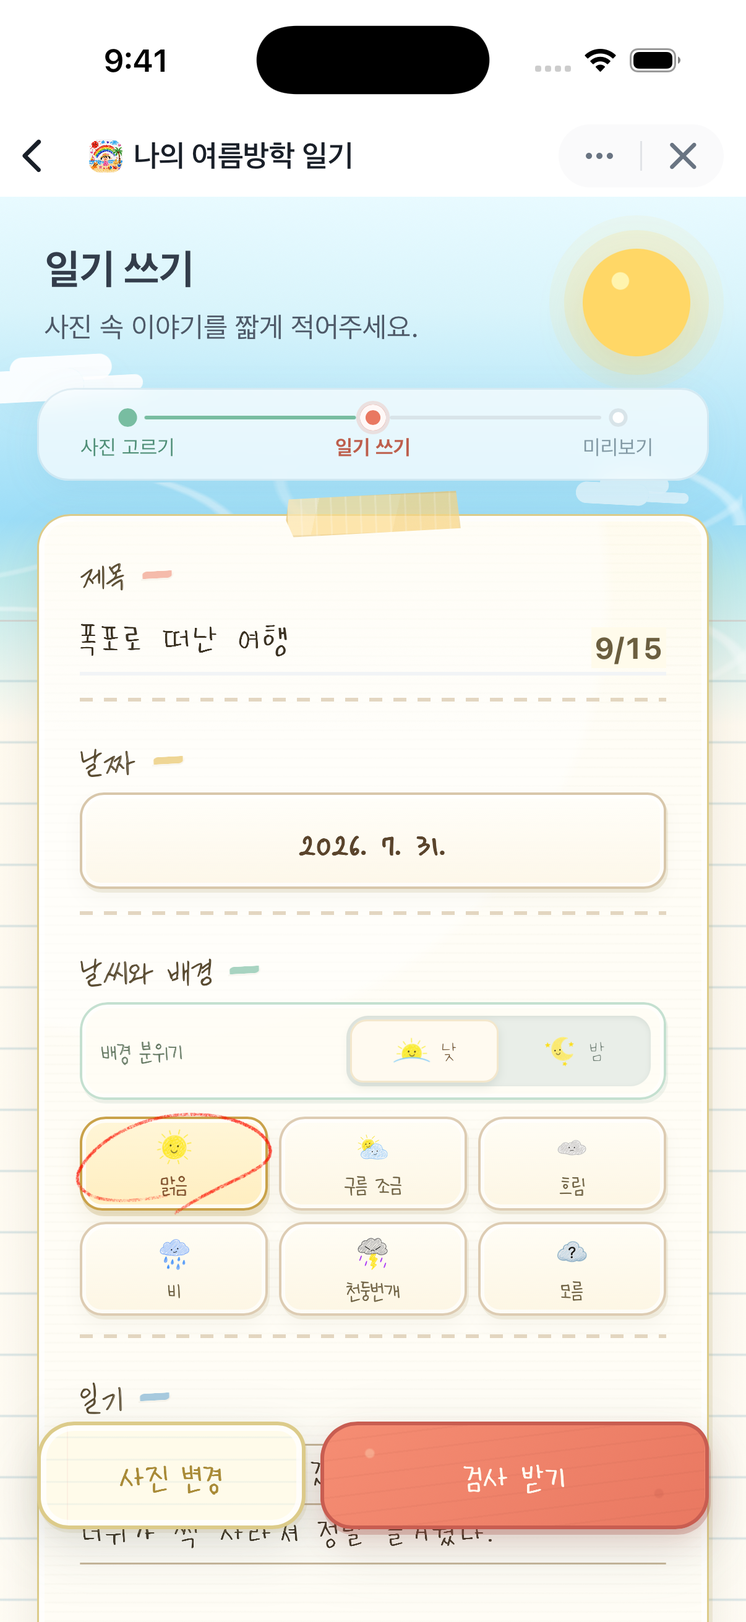
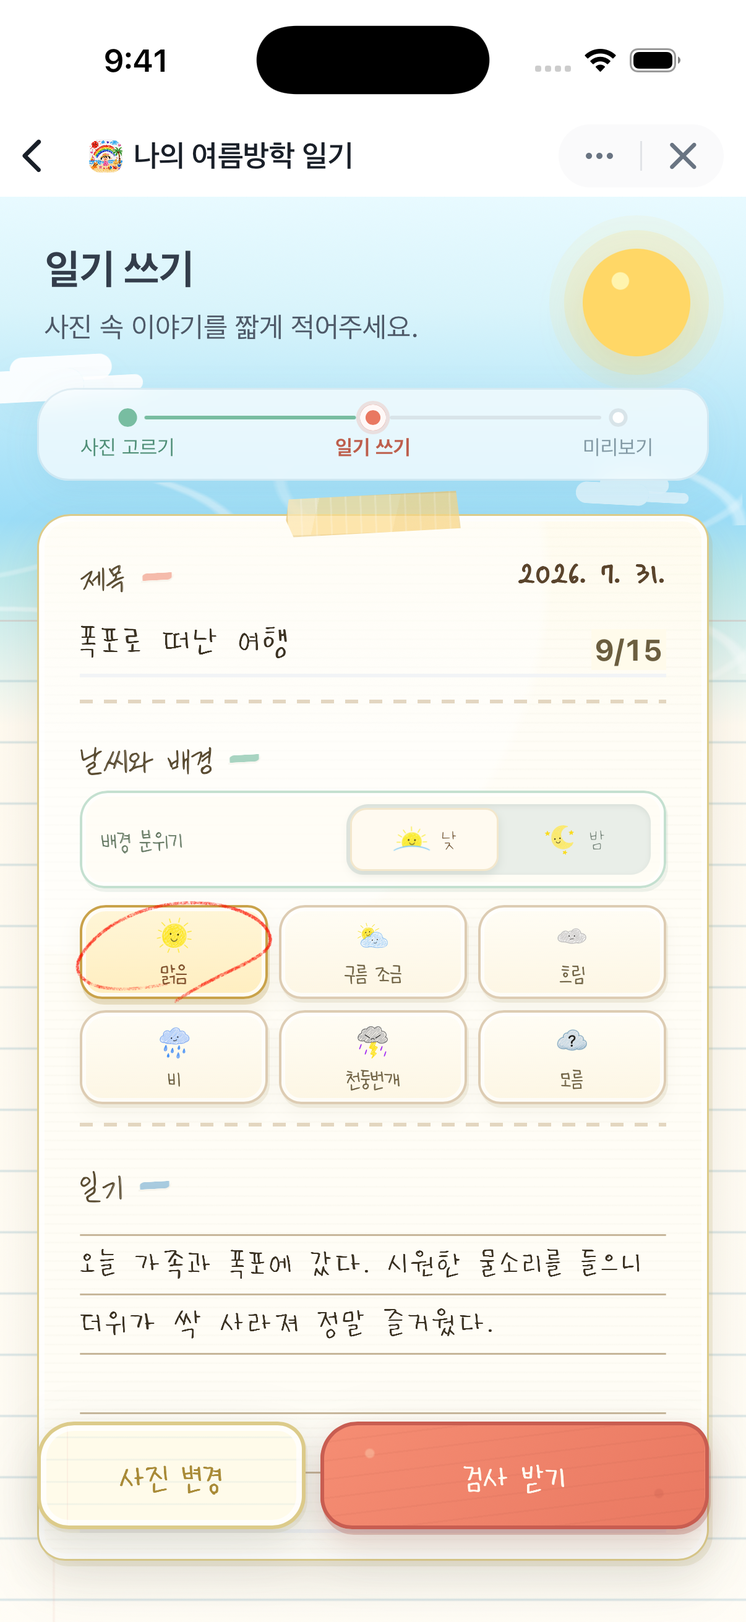
docs: 최신 기능과 연속 일기 기록 화면 반영

diff --git a/docs/functional-specification.md b/docs/functional-specification.md
@@ -46,7 +46,7 @@
 - **관련 화면:** 온보딩, 업로드
 - **관련 API:** 앱 로드 시 `quota-status`를 비차감 조회할 수 있음(F-10)
 - **관련 데이터:** 온보딩 표시 여부는 React 메모리 상태이며 영구 저장하지 않음
-- **완료 조건:** 업로드 화면과 1/3 진행 상태가 표시됨
+- **완료 조건:** 업로드 화면에 오늘의 도장·연속 작성 상태와 AI 검사 잔여량이 표시됨. 업로드 단계 번호는 표시하지 않음
 - **상태:** `구현 완료`
 - **근거:** `src/App.tsx`, `src/hooks/useAiQuota.ts`
 
@@ -103,7 +103,7 @@
 - **관련 화면:** 작성
 - **관련 API:** 없음
 - **관련 데이터:** `summer-vacation-diary:draft:v2`의 `draftId`, 사진, 그림, 제목, 본문, 날짜, 날씨, `timeOfDay`
-- **완료 조건:** 제목과 본문이 각각 공백이 아니면 `검사 받기`가 유효해짐
+- **완료 조건:** 제목과 본문이 각각 공백이 아니면 최초 `검사 받기`가 유효해짐. 미리보기 재방문 뒤에는 변경 종류에 따라 `다시 검사 받기`, `수정 내용 확인하기`, `미리보기로 돌아가기`를 표시함
 - **상태:** `구현 완료`
 - **근거:** `src/components/WriteStep.tsx`, `src/App.tsx`, `src/hooks/useDiaryDraft.ts`, `src/constants/diary.ts`
 
@@ -204,7 +204,7 @@
 - **Actor:** 사용자
 - **사전 조건:** Supabase가 설정되고 클라이언트 테스트 모드가 꺼짐
 - **입력:** 앱 시작의 `quota-status` 및 각 응답에 포함된 `quota`
-- **정상 흐름:** 서버가 반환한 필수 `all` 카운터를 통합 AI 검사 기회로 표시합니다. 사진 변환이나 분석 중 하나만 다시 실행되어도 Edge Function이 통합 consume RPC로 `all` 1회를 예약하며, 통합 기회를 모두 사용하면 두 작업을 함께 선차단하고 미리보기 처리 애니메이션도 생략합니다. 그림 진행 중 요청은 로컬 ledger로 선반영합니다. DB 수준 원자성은 설치된 RPC SQL 확인이 필요합니다.
+- **정상 흐름:** 서버가 반환한 필수 `all` 카운터를 통합 AI 검사 기회로 표시합니다. 사진 변환이나 분석 중 하나만 다시 실행되어도 Edge Function이 통합 consume RPC로 `all` 1회를 예약하며, 통합 기회를 모두 사용하면 두 작업을 함께 선차단하고 미리보기 처리 애니메이션도 생략합니다. 그림 진행 중 요청은 로컬 ledger로 선반영합니다. 업로드 화면에서는 이 잔여량을 오늘의 도장·연속 기록 안내와 한 카드에 표시합니다. DB 수준 원자성은 설치된 RPC SQL 확인이 필요합니다.
 - **예외 흐름:** 조회 실패 시 사용량 UI를 `unknown`으로 두되 일기 흐름을 차단하지 않습니다. 해외 지역이면 실제 서버 작업을 선차단하고 원본 사진 흐름은 유지합니다.
 - **출력:** 통합 AI 검사 사용량 안내, 두 작업의 공동 선차단, 오류 문구
 - **권한:** 사용자 인증 없음. 익명 Toss 키 또는 브라우저 설치 ID를 `x-diary-client-id`로 보냄
@@ -238,9 +238,9 @@
 - **Actor:** 사용자
 - **사전 조건:** F-08의 Canvas 합성 성공
 - **입력:** 합성된 JPEG, 초안 ID, 사진·본문 revision hash와 초안의 작성 날짜·제목·날씨·AI 생성 여부
-- **정상 흐름:** JPEG와 초안 ID, AI 입력인 사진·본문의 revision hash를 `saveDiary`에 전달합니다. 전체 기록을 일기별 key에 먼저 쓰고 이미지가 없는 요약 index를 나중에 갱신합니다. 저장에 성공하면 `일기가 달력에 저장되었어요! (현재 개수/3)` 토스트를 한 번 표시하고 저장 날짜의 달력으로 이동합니다. 해당 날짜에 도장이 찍히는 애니메이션을 보여주고 1.5초 뒤 방금 저장한 기록을 자동으로 엽니다. 같은 초안의 revision hash가 유지되면 제목·날씨 변경을 기존 기록에 반영하고, 사진 또는 본문이 바뀌면 새 ID의 별도 기록으로 저장합니다.
+- **정상 흐름:** JPEG와 초안 ID, AI 입력인 사진·본문의 revision hash를 `saveDiary`에 전달합니다. 전체 기록을 일기별 key에 먼저 쓰고 이미지가 없는 요약 index를 나중에 갱신합니다. 기기 저장 후 오늘의 연속 기록을 반영하면 `일기와 오늘의 도장을 저장했어요! (현재 개수/3)` 토스트를 한 번 표시하고 저장 날짜의 달력으로 이동합니다. 해당 날짜에 도장이 찍히는 애니메이션을 보여주고 1.5초 뒤 방금 저장한 기록을 자동으로 엽니다. 같은 초안의 revision hash가 유지되면 제목·날씨 변경을 기존 기록에 반영하고, 사진 또는 본문이 바뀌면 새 ID의 별도 기록으로 저장합니다.
 - **호환 흐름:** `revisionKey`가 없는 이전 버전 기록은 사진 일치 여부를 확정할 수 없어 다른 기록과 자동 병합하지 않고 보존합니다. 같은 날짜의 동일 완성 이미지를 다시 저장할 때만 새 형식으로 교체합니다.
-- **예외 흐름:** 같은 날짜에 서로 다른 일기가 3개면 작성 화면 진입 시 기존 기록을 삭제할 수 있는 달력 상세 이동을 안내합니다. 저장 시점에도 `daily-limit`으로 다시 검증하며, 저장 공간 부족은 `storage-full`, 읽기 실패는 `read-failed`로 처리해 토스트를 표시하고 미리보기를 유지합니다.
+- **예외 흐름:** 같은 날짜에 서로 다른 일기가 3개면 작성 화면 진입 시 기존 기록을 삭제할 수 있는 일기장 이동을 안내합니다. 저장 시점에도 `daily-limit`으로 다시 검증하고 동일한 닫기·일기장 보기 다이얼로그를 미리보기 위에 표시합니다. 일기장으로 이동해 삭제한 뒤에는 저장 전 미리보기로 돌아옵니다. 저장 공간 부족은 `storage-full`, 읽기 실패는 `read-failed`로 처리해 토스트를 표시하고 미리보기를 유지합니다. 연속 기록 반영만 실패하면 완성 일기는 유지하고 `일기는 저장했지만 오늘의 도장을 확인하지 못했어요.`를 표시합니다.
 - **출력:** 저장된 `DiaryRecord`, 저장 성공 토스트
 - **권한:** `granite.config.ts` 권한 배열은 비어 있음
 - **관련 화면:** 미리보기, 일기 달력, 일기 뷰어
@@ -255,8 +255,8 @@
 - **목적:** 기기에 보관한 완성 일기를 월·날짜별로 다시 보고 관리합니다.
 - **Actor:** 사용자
 - **사전 조건:** 온보딩 종료
-- **입력:** `나의 기록 보기`, 이전·다음 달, 도장이 있는 날짜, 뷰어 이동·스와이프, `저장 및 공유`, `일기 삭제`
-- **정상 흐름:** 현재 달을 월요일 시작 달력으로 표시하고 기록이 있는 날짜에 완료 도장을 표시합니다. 완성 직후 진입하면 저장 날짜가 포함된 달에서 새 도장 애니메이션을 먼저 재생하고 1.5초 뒤 방금 저장한 일기를 엽니다. 날짜를 직접 누르면 해당 날짜 셀에 강조 링을 표시한 뒤 종이 조각이 날짜 위치에서 천천히 확대되어 상세 카드로 펼쳐지며 그 날 일기를 최신순으로 엽니다. 같은 날 여러 일기는 화살표나 48px 이상 좌우 스와이프로 이동합니다. `저장 및 공유`는 저장·공유 모달을 열어 이미지 저장 또는 앱 링크 공유를 제공합니다. 날짜 관리로 진입한 상세에서는 공유를 숨기고 삭제에 집중합니다. 삭제는 확인 모달 이후 index와 항목을 제거합니다. 달력의 `돌아가기`는 완성 후에는 그림 선택 화면으로, 날짜 관리 후에는 일기 쓰기 화면으로 이동합니다.
+- **입력:** `일기장 보기`, 이전·다음 달, 도장이 있는 날짜, 이전·다음 일기 버튼, `저장 및 공유`, `일기 삭제`
+- **정상 흐름:** 현재 연속 일수와 누적 작성일 요약 위에 월요일 시작 달력을 표시하고 기록이 있는 날짜에 완료 도장을 표시합니다. 완성 직후 진입하면 저장 날짜가 포함된 달에서 새 도장 애니메이션을 먼저 재생하고 1.5초 뒤 방금 저장한 일기를 엽니다. 날짜를 직접 누르면 해당 날짜 셀에 강조 링을 표시한 뒤 종이 조각이 날짜 위치에서 천천히 확대되어 상세 카드로 펼쳐지며 그 날 일기를 최신순으로 엽니다. 같은 날 여러 일기는 이전·다음 화살표 버튼으로만 이동합니다. `저장 및 공유`는 저장·공유 모달을 열어 이미지 저장 또는 앱 링크 공유를 제공합니다. 날짜 관리로 진입한 상세에서는 공유를 숨기고 삭제에 집중합니다. 삭제는 확인 모달 이후 index와 항목을 제거합니다. 달력의 `돌아가기`는 진입 지점에 따라 업로드·작성·미리보기로 돌아가며, 완성 후에는 새 일기 시작으로 이동합니다.
 - **예외 흐름:** 빈 달은 안내 문구를 표시합니다. 손상되거나 사라진 항목은 찾을 수 없음으로 표시하고 index를 정리합니다. 조회·공유·삭제 오류는 현재 화면을 유지한 채 알립니다.
 - **출력:** 월별 완료 도장, 완성 JPEG 뷰어, 갱신된 보관 목록
 - **권한:** 없음
@@ -306,16 +306,19 @@
 - [ ] 모션 감소 설정과 320×600 화면에서도 완료 문구와 모든 액션을 사용할 수 있다.
 - [ ] 토스 WebView와 브라우저에서 저장·공유 대체 경로가 동작한다.
 - [ ] 완성한 일기가 일기 달력의 해당 날짜에 자동 보관되고 같은 날 최대 3개까지만 저장된다.
-- [ ] 달력 보관 성공 직후 `일기가 달력에 저장되었어요! (현재 개수/3)` 토스트가 한 번 표시된다.
+- [ ] 달력 보관과 도장 기록 성공 직후 `일기와 오늘의 도장을 저장했어요! (현재 개수/3)` 토스트가 한 번 표시된다.
 - [ ] 달력 보관 성공 직후 저장 날짜에 새 도장이 찍힌 다음 방금 저장한 기록이 자동으로 열린다.
 - [ ] 같은 초안의 사진·본문은 유지하고 제목 또는 날씨만 바꿔 재저장하면 기존 기록이 갱신되어 하나만 남는다.
 - [ ] 같은 초안이라도 사진 또는 본문을 수정한 뒤 저장하면 서로 다른 기록이 함께 남는다.
-- [ ] 같은 날짜의 여러 일기를 버튼과 좌우 스와이프로 이동할 수 있다.
+- [ ] 같은 날짜의 여러 일기를 이전·다음 버튼으로 이동할 수 있고 좌우 스와이프는 동작하지 않는다.
+- [ ] 사진·본문, 제목·날씨·낮/밤, 변경 없음에 따라 작성 CTA가 각각 `다시 검사 받기`, `수정 내용 확인하기`, `미리보기로 돌아가기`로 바뀐다.
+- [ ] 작성 진입과 미리보기 저장 시점 모두 하루 3개 한도 다이얼로그가 열리고, 미리보기에서 일기장으로 이동했다가 돌아오면 저장 전 결과가 유지된다.
 - [ ] 보관 일기를 이미지로 내보내고 확인 후 삭제할 수 있다.
 - [ ] 상세 뷰어의 `저장 및 공유`가 저장·공유 모달을 열고 `창 닫기`가 현재 상세를 유지한다.
-- [ ] 달력의 `돌아가기`가 완성 후에는 그림 선택 화면으로, 날짜 관리 후에는 일기 쓰기 화면으로 이동한다.
-- [ ] 일기 입력 날짜가 과거여도 적립일은 실제 완성한 한국 날짜이며 같은 날 여러 편을 저장해도 1일만 적립된다.
-- [ ] 업로드 카드의 기존 AI 검사 3칸 막대가 유지되고 연속 기록 안내가 카드 상단에 간결하게 표시된다.
+- [ ] 달력 CTA가 진입 지점에 따라 `돌아가기`, `일기 쓰기로 돌아가기`, `미리보기로 돌아가기`, `새 일기 쓰기`로 표시되고 해당 화면으로 이동한다.
+- [ ] 같은 한국 날짜에 여러 편을 저장해도 연속 기록은 1일만 적립된다.
+- [ ] 업로드 카드에 오늘의 도장 완료 여부·현재 연속 일수와 AI 검사 3칸 막대가 함께 표시된다.
+- [ ] 달력 카드에 현재 연속 일수와 누적 작성일이 표시된다.
 - [ ] 5·7·14·21·30·50·100·365일 특별 마일스톤은 최초 달성 때만 일기 공개 후 나타난다.
 - [ ] 연속이 끊긴 뒤 최고 기록을 보여주지 않고 새 1일부터 시작한다.
 - [ ] 진행 API가 실패해도 완성 일기는 저장되며, 같은 날 재방문하면 미동기화 완료 기록을 재시도한다.

diff --git a/README.md b/README.md
@@ -6,13 +6,13 @@
   <img src="./public/branding/app-icon.png" width="160" alt="나의 여름방학 일기 앱 아이콘" />
 </p>
 
-사진 선택·자르기와 일기 작성, 그림 변환, 선생님 첨삭, 결과물 저장과 일기 달력 보관까지 하나의 흐름으로 제공합니다.
+사진 선택·자르기와 일기 작성, 그림 변환, 선생님 첨삭, 결과물 저장, 일기 달력 보관과 연속 작성 도장까지 하나의 흐름으로 제공합니다.
 
 [![React](https://img.shields.io/badge/React-18.3.1-61DAFB?logo=react&logoColor=white)](https://react.dev/) [![TypeScript](https://img.shields.io/badge/TypeScript-5.7.3-3178C6?logo=typescript&logoColor=white)](https://www.typescriptlang.org/) [![Vite](https://img.shields.io/badge/Vite-6.4.3-646CFF?logo=vite&logoColor=white)](https://vite.dev/) [![Apps in Toss](https://img.shields.io/badge/Apps_in_Toss-2.10.7-0064FF?logo=toss&logoColor=white)](https://developers-apps-in-toss.toss.im/) [![TDS Mobile](https://img.shields.io/badge/TDS_Mobile-2.5.0-0064FF?logo=toss&logoColor=white)](https://tossmini-docs.toss.im/tds-mobile/) [![React Easy Crop](https://img.shields.io/badge/React_Easy_Crop-6.2.3-61DAFB?logo=react&logoColor=white)](https://valentinh.github.io/react-easy-crop/) [![Supabase](https://img.shields.io/badge/Supabase-Edge_Functions_%26_PostgreSQL-3FCF8E?logo=supabase&logoColor=white)](https://supabase.com/)
 
 ## 동작 화면
 
-아래 화면은 온보딩부터 사진 동의·자르기, 일기 작성과 AI 검사, 완성 후 기기 보관·공유, 일기 달력 재열람과 최종 결과물까지 현재 앱의 핵심 흐름을 보여줍니다. 완성 일기는 저장 직후 달력에 자동 보관되고, 같은 날짜의 여러 기록은 상세 뷰어에서 넘겨 볼 수 있습니다.
+아래 화면은 온보딩부터 사진 동의·자르기, 일기 작성과 AI 검사, 완성 후 기기 보관·공유, 연속 작성 기록, 일기 달력 재열람과 최종 결과물까지 현재 앱의 핵심 흐름을 보여줍니다. 완성 일기는 저장 직후 달력에 자동 보관되고, 같은 날짜의 여러 기록은 상세 뷰어의 이전·다음 버튼으로 넘겨 볼 수 있습니다.
 
 <table>
   <tr>
@@ -23,8 +23,8 @@
     </td>
     <td align="center" width="50%">
       <strong>2. 사진 업로드</strong><br /><br />
-      <img src="./docs/screenshots/02-photo-upload.png" width="300" alt="그림일기로 만들 사진을 업로드하는 화면" /><br /><br />
-      <sub>사진 형식·용량과 하루 AI 검사 기회를 확인하고 사진 선택을 시작하는 화면</sub>
+      <img src="./docs/screenshots/02-photo-upload.png" width="300" alt="오늘의 도장과 연속 작성일, AI 검사 기회를 확인하며 사진을 업로드하는 화면" /><br /><br />
+      <sub>오늘의 도장 완료 여부와 연속 작성일, 하루 AI 검사 기회를 함께 확인하고 사진 선택을 시작하는 화면</sub>
     </td>
   </tr>
   <tr>
@@ -60,7 +60,7 @@
     <td align="center" width="50%">
       <strong>8. 저장된 일기 상세</strong><br /><br />
       <img src="./docs/screenshots/08-saved-diary-detail.png" width="300" alt="저장된 그림일기 상세 화면" /><br /><br />
-      <sub>같은 날짜의 기록을 이전·다음 버튼이나 좌우 스와이프로 넘겨 보고 삭제·저장 및 공유를 선택하는 화면</sub>
+      <sub>같은 날짜의 기록을 이전·다음 버튼으로 넘겨 보고 삭제·저장 및 공유를 선택하는 화면</sub>
     </td>
   </tr>
   <tr>
@@ -71,8 +71,8 @@
     </td>
     <td align="center" width="50%">
       <strong>10. 일기 달력</strong><br /><br />
-      <img src="./docs/screenshots/10-diary-calendar.png" width="300" alt="완성한 날짜에 도장이 표시된 일기 달력 화면" /><br /><br />
-      <sub>월을 이동하고 완성한 날짜의 도장을 눌러 저장된 일기를 다시 여는 화면</sub>
+      <img src="./docs/screenshots/10-diary-calendar.png" width="300" alt="연속 작성일과 누적 기록일, 완성 도장이 표시된 일기 달력 화면" /><br /><br />
+      <sub>현재 연속 작성일과 누적 기록일을 확인하고, 월별 완료 도장을 눌러 저장된 일기를 다시 여는 화면</sub>
     </td>
   </tr>
   <tr>
@@ -101,6 +101,7 @@
 | 결과 이미지 생성 | 처리 중 하단 작업을 잠그고 공개 애니메이션 뒤 1080×1350 그림일기를 JPEG로 합성          | 구현 완료 |
 | 저장·공유        | 토스에서는 기기 저장·공유 API, 브라우저에서는 다운로드·Web Share·링크 복사 사용         | 구현 완료 |
 | 일기 달력        | 사진·본문이 같으면 기존 기록을 교체하고 둘 중 하나가 바뀌면 별도 기록으로 보관          | 구현 완료 |
+| 연속 작성 기록   | 오늘의 완료 도장, 현재 연속·누적 작성일, 재방문 문구와 지정 구간 축하 모달 표시         | 구현 완료 |
 
 세부 사전 조건, 예외 흐름, 권한과 근거 파일은 [기능 명세](./docs/functional-specification.md)에 정리되어 있습니다.
 
@@ -116,26 +117,27 @@ flowchart LR
     F --> S["기기 저장"]
     F --> H["앱 링크 공유"]
     F --> A["일기 달력 보관"]
+    A --> R["오늘의 도장·연속 기록 반영"]
     A --> V["날짜별 열람·이미지 저장·앱 링크 공유·삭제"]
     P --> W
     W --> C
 ```
 
-사진 변환과 일기 검사는 `검사 받기`를 눌렀을 때 필요한 작업만 실행합니다. 두 작업은 사용자에게 하나의 AI 검사 기회로 제공되며 총 3회 사용할 수 있습니다. 같은 사진의 그림과 같은 입력의 분석 결과는 재사용합니다. 사용량이 이미 소진되어 실행할 작업이 없으면 처리 애니메이션을 건너뛰고 원본 기반 미리보기를 바로 표시합니다. 완성한 JPEG를 일기 달력에 저장하면 `일기가 달력에 저장되었어요! (현재 개수/3)` 토스트를 표시하고, 해당 날짜에 도장이 찍힌 뒤 새 기록을 자동으로 엽니다.
+사진 변환과 일기 검사는 `검사 받기`를 눌렀을 때 필요한 작업만 실행합니다. 사진 또는 본문이 바뀌면 `다시 검사 받기`, 제목·날씨·낮/밤만 바뀌면 `수정 내용 확인하기`, 변경이 없으면 `미리보기로 돌아가기`로 다음 동작을 구분합니다. 두 AI 작업은 하나의 검사 기회로 제공되며 총 3회 사용할 수 있습니다. 같은 사진의 그림과 같은 입력의 분석 결과는 재사용합니다. 사용량이 이미 소진되어 실행할 작업이 없으면 처리 애니메이션을 건너뛰고 원본 기반 미리보기를 바로 표시합니다. 완성한 JPEG를 일기 달력에 저장하고 연속 기록까지 반영하면 `일기와 오늘의 도장을 저장했어요! (현재 개수/3)` 토스트를 표시하고, 해당 날짜에 도장이 찍힌 뒤 새 기록을 자동으로 엽니다. 진행 서버 확인에 실패해도 일기는 저장하며 별도 안내를 표시합니다.
 
 ## 입력 규칙
 
-| 항목        | 규칙                                         |
-| ----------- | -------------------------------------------- |
-| 사진        | JPEG/JPG, PNG, WEBP 1장                      |
-| 파일 크기   | 최대 10MB                                    |
-| 이미지 크기 | 가로·세로 각각 최소 200px                    |
-| 자르기 결과 | 3:2 비율, 1278×852 JPEG                      |
-| 제목        | 공백만 입력할 수 없음, 최대 15자             |
-| 일기        | 공백만 입력 불가, 입력 최대 65자             |
+| 항목        | 규칙                                                               |
+| ----------- | ------------------------------------------------------------------ |
+| 사진        | JPEG/JPG, PNG, WEBP 1장                                            |
+| 파일 크기   | 최대 10MB                                                          |
+| 이미지 크기 | 가로·세로 각각 최소 200px                                          |
+| 자르기 결과 | 3:2 비율, 1278×852 JPEG                                            |
+| 제목        | 공백만 입력할 수 없음, 최대 15자                                   |
+| 일기        | 공백만 입력 불가, 입력 최대 65자                                   |
 | 날짜        | 초안 생성 시점의 기기 로컬 날짜로 자동 확정, 사용자가 바꿀 수 없음 |
-| 날씨        | 맑음, 구름 조금, 흐림, 비, 천둥번개, 모름    |
-| 배경        | 낮 또는 밤                                   |
+| 날씨        | 맑음, 구름 조금, 흐림, 비, 천둥번개, 모름                          |
+| 배경        | 낮 또는 밤                                                         |
 
 ## 실행 모드
 

diff --git a/docs/completion-feedback-specification.md b/docs/completion-feedback-specification.md
@@ -20,13 +20,13 @@
 
 앱에서 사용하는 완료 상태는 서로 다릅니다.
 
-| 상태          | 의미                                              | 사용자에게 보이는 결과                                  |
-| ------------- | ------------------------------------------------- | ------------------------------------------------------- |
-| 미리보기 준비 | 그림 변환·분석·처리 애니메이션이 끝남             | `일기 완성하기` 활성화                                  |
-| 이미지 완성   | `composeDiaryImage()`가 JPEG data URL 생성        | 달력 자동 보관 시도                                     |
-| 달력 보관     | `saveDiary()`가 기기 저장소에 record와 index 저장 | `일기가 달력에 저장되었어요! (현재 개수/3)` 토스트 표시 |
-| 파일 저장     | 사용자가 `이미지 저장하기` 실행                   | 토스 저장 화면 또는 브라우저 다운로드                   |
-| 앱 공유       | 사용자가 `앱 공유하기` 실행                       | 앱 소개 문구와 미니앱 링크 공유                         |
+| 상태          | 의미                                              | 사용자에게 보이는 결과                 |
+| ------------- | ------------------------------------------------- | -------------------------------------- |
+| 미리보기 준비 | 그림 변환·분석·처리 애니메이션이 끝남             | `일기 완성하기` 활성화                 |
+| 이미지 완성   | `composeDiaryImage()`가 JPEG data URL 생성        | 달력 자동 보관 시도                    |
+| 달력 보관     | `saveDiary()`가 기기 저장소에 record와 index 저장 | 오늘의 도장 기록 후 결과별 토스트 표시 |
+| 파일 저장     | 사용자가 `이미지 저장하기` 실행                   | 토스 저장 화면 또는 브라우저 다운로드  |
+| 앱 공유       | 사용자가 `앱 공유하기` 실행                       | 앱 소개 문구와 미니앱 링크 공유        |
 
 이미지 완성과 파일 저장은 같은 동작이 아닙니다. 완성 이미지는 먼저 달력에 보관되며, 사진 앱이나 다운로드 폴더에 별도로 보관하려면 상세 뷰어의 `저장 및 공유`에서 `이미지 저장하기`를 눌러야 합니다.
 
@@ -87,7 +87,9 @@ JPEG 합성 성공 직후 앱은 같은 이미지를 일기 달력에 자동 보
 - 같은 초안이라도 사진 또는 본문이 달라지면 새 ID의 별도 항목으로 저장
 - 이전 버전의 동일 날짜·동일 이미지는 새 초안 ID 모델로 교체
 - index에는 이미지 없는 요약만 저장하고, JPEG는 일기별 key에 저장
-- 보관 성공 시 `일기가 달력에 저장되었어요! (현재 개수/3)` 토스트 표시
+- 보관과 오늘의 도장 기록 성공 시 `일기와 오늘의 도장을 저장했어요! (현재 개수/3)` 토스트 표시
+- 보관은 성공하고 도장 기록만 실패하면 `일기는 저장했지만 오늘의 도장을 확인하지 못했어요.` 표시
+- 날짜별 3개 한도에 걸리면 미리보기에서 닫기·`일기장 보기` 다이얼로그를 표시하고, 일기장에서 기존 기록을 삭제한 뒤 미리보기로 돌아와 다시 완성할 수 있음
 - 보관 성공 시 저장 날짜가 포함된 달로 이동하고 1.5초 뒤 방금 저장한 기록을 자동으로 열기
 - 보관 실패는 토스트로 알리되 미리보기는 유지
 - 보관 데이터는 서버나 다른 기기와 동기화되지 않음
@@ -137,9 +139,11 @@ JPEG 합성 성공 직후 앱은 같은 이미지를 일기 달력에 자동 보
 - [ ] 저장·공유 모달에서 하늘색 앱 공유는 왼쪽, 빨간 이미지 저장은 오른쪽에 반씩 표시되고, 그 아래 창 닫기가 아이콘 없는 크림색 공통 버튼 스타일로 표시된다.
 - [ ] 저장·공유 모달의 저장·앱 공유·창 닫기가 동작한다.
 - [ ] 자동 보관 실패 시 달력이나 저장·공유 모달로 이동하지 않고 미리보기를 유지한다.
-- [ ] 자동 보관 성공 직후 `일기가 달력에 저장되었어요! (현재 개수/3)` 토스트가 한 번 표시된다.
+- [ ] 자동 보관과 도장 기록 성공 직후 `일기와 오늘의 도장을 저장했어요! (현재 개수/3)` 토스트가 한 번 표시된다.
+- [ ] 도장 기록 실패 시 완성 일기는 유지되고 도장 확인 실패 토스트가 표시된다.
+- [ ] 미리보기 저장 시 하루 3개 한도에 걸리면 일기장으로 이동해 삭제한 뒤 같은 미리보기로 돌아올 수 있다.
 - [ ] 자동 보관 성공 직후 해당 날짜에 도장이 찍히고, 1.5초 뒤 방금 저장한 기록이 자동으로 열린다.
-- [ ] 완성 후 달력의 `돌아가기`는 그림 선택 화면으로, 날짜 관리 진입 후에는 일기 쓰기 화면으로 이동한다.
+- [ ] 완성 후 달력의 `새 일기 쓰기`는 업로드로 이동하고, 한도 안내에서 진입한 달력은 작성 또는 미리보기로 정확히 돌아간다.
 - [ ] 같은 초안의 사진·본문은 유지하고 제목·날씨만 바꿔 다시 저장하면 기존 항목을 교체하고 같은 날짜는 최대 3개로 제한된다.
 - [ ] 같은 초안의 사진 또는 본문을 수정해 다시 저장하면 같은 날짜에 서로 다른 기록이 남는다.
 - [ ] 새 일기 시작 후에도 기존 일기 달력 기록은 남는다.

diff --git a/docs/deployment.md b/docs/deployment.md
@@ -61,13 +61,13 @@ npm run deploy
 
 ## 환경별 권장 확인
 
-| 환경           | 확인 항목                                                               |
-| -------------- | ----------------------------------------------------------------------- |
-| 브라우저       | mock/필터, JPEG 다운로드, Web Share·링크 복사, localStorage 달력        |
-| Toss 샌드박스  | deep link, safe area, `saveBase64Data`, Toss 공유창, `Storage` 달력     |
-| iOS 실기기     | 세로·가로 사진의 cover 자르기·회전, 저장 화면, 보관 일기 열람·공유·삭제 |
-| Android 실기기 | 빈 MIME, 저장 파일명, back 동작, 달력 스와이프                          |
-| 실제 Supabase  | inspect·quota-status·progress action, 멱등 완료, timeout, 오류 code      |
+| 환경           | 확인 항목                                                           |
+| -------------- | ------------------------------------------------------------------- |
+| 브라우저       | mock/필터, JPEG 다운로드, Web Share·링크 복사, localStorage 달력    |
+| Toss 샌드박스  | deep link, safe area, `saveBase64Data`, Toss 공유창, `Storage` 달력 |
+| iOS 실기기     | cover 자르기·회전, native back, 앞·뒤 스와이프 차단, 보관 일기 관리 |
+| Android 실기기 | 빈 MIME, 저장 파일명, native back, 키보드 닫힘 뒤 하단 CTA 복원     |
+| 실제 Supabase  | inspect·quota-status·progress action, 멱등 완료, timeout, 오류 code |
 
 ## 출시 전 체크리스트
 
@@ -84,6 +84,9 @@ npm run deploy
 - [ ] 일기 날짜가 초안 생성 시점으로 확정되고 화면에서 사용자가 바꿀 수 없다.
 - [ ] SQL을 Function보다 먼저 적용했고, 같은 한국 날짜의 `progress-complete` 반복 호출이 1일만 적립한다.
 - [ ] 연속 기록 장애가 일기 저장을 막지 않고 같은 날 앱 복귀 시 완료 동기화를 재시도한다.
+- [ ] 업로드와 달력에 현재 연속·누적 작성 기록이 표시되고 특별 마일스톤 모달이 기록 공개 뒤 한 번만 열린다.
+- [ ] 같은 날 여러 일기는 화살표 버튼으로 이동하며 좌우 스와이프가 동작하지 않는다.
+- [ ] iOS 앞·뒤 스와이프가 비활성화되고 하단 버튼·네이티브 back이 동일한 제작 단계로 이동한다.
 - [ ] 보관 기록이 계정·기기·브라우저 환경 사이에 동기화되지 않는다는 제품 안내가 운영 정책과 맞다.
 - [ ] Edge Function 장애 시 원본 사진과 mock이 아니라 명시적 오류/fallback이 나타난다.
 - [ ] 린트, 타입 검사, build가 성공했다.

diff --git a/docs/refactoring-plan.md b/docs/refactoring-plan.md
@@ -19,6 +19,8 @@
 - [x] 사진 자르기를 원본 기반 `cover` 3:2·90° 회전 좌표로 통일
 - [x] 미리보기 처리 중 하단 작업 바를 유지하고 카드·도장 공개 완료 시점까지 잠금
 - [x] 첨삭 체크·별표 자산을 투명도와 원본 질감을 보존하는 PNG로 교체
+- [x] 연속 기록 조회·완료 동기화를 `useDiaryProgress`와 `diaryProgress` 서비스로 분리
+- [x] 제작 화면 이동을 History API와 토스 `backEvent`에 연결하고 iOS WebView 앞·뒤 스와이프를 차단
 
 ## 현재 기술 부채
 
@@ -34,8 +36,8 @@
    - 완성 JPEG를 data URL로 보관하므로 기기 저장소 한도에 빨리 도달할 수 있습니다.
    - 항목 크기 측정, 오래된 기록 정리 UX, 실제 토스 `Storage` 한도 검증이 필요합니다.
 4. Edge Function·DB migration version 관리
-   - 제공된 `diary-ai/index.ts`는 저장소 밖 스냅샷이며 import하는 prompt와 세 quota RPC SQL도 저장소에 없습니다.
-   - 운영 DB의 `pg_get_functiondef` 결과와 table DDL을 migration으로 보관하고 배포 version을 함께 기록해야 rollback과 환경 재현이 가능합니다.
+   - Edge Function과 전체 DB bootstrap은 저장소에 있지만 변경 단위 migration과 운영 배포 version 기록은 없습니다.
+   - 운영 DB의 `pg_get_functiondef` 결과와 table DDL을 순차 migration으로 보관하고 배포 version을 함께 기록해야 rollback과 환경 재현이 가능합니다.
 5. 문서와 코드 계약 자동 확인
    - 환경 변수, storage key, 입력 길이, API action 같은 값은 코드 변경 시 문서가 어긋날 수 있습니다.
 
@@ -45,8 +47,9 @@
 - `useDiaryDraft`: 현재 작성 중인 임시 사본
 - `diaryExport`: JPEG 파일 내보내기
 - `diaryShare`: 앱 링크 공유
-- `supabaseEdge`: 외부 AI Function 호출과 공통 오류·quota snapshot
-- 외부 `diary-ai/index.ts`: OpenAI 요청, 지역 제한, quota 예약·환불 orchestration
+- `diaryProgress`: 방문·완료 기록, 로컬 대체 경로와 당일 실패 재시도
+- `supabaseEdge`: 외부 AI Function 호출과 공통 오류·quota·progress snapshot
+- `supabase/diary-ai/index.ts`: OpenAI 요청, 지역 제한, quota와 진행 기록 orchestration
 - PostgreSQL RPC: 사용자·IP·서비스 counter의 원자적 read·consume·refund
 
 서로 이름이 비슷해도 보관, 파일 저장, 앱 공유는 사용자 결과가 다르므로 하나의 서비스로 합치지 않습니다.

diff --git a/docs/setup.md b/docs/setup.md
@@ -179,10 +179,12 @@ npm run build
 1. 사진 동의 → 세로·가로 사진 선택 → 3:2 이동·확대·90° 회전 자르기
 2. 제목·날씨·낮/밤 배경·본문 입력과 오늘 날짜 자동 표시 확인
 3. `검사 받기` 후 그림·첨삭 미리보기 확인
-4. `일기 완성하기` 후 JPEG 자동 보관과 `일기가 달력에 저장되었어요! (현재 개수/3)` 토스트 확인
+4. `일기 완성하기` 후 JPEG 자동 보관, 오늘의 도장 적립과 `일기와 오늘의 도장을 저장했어요! (현재 개수/3)` 토스트 확인
 5. 저장 일기 상세의 `저장 및 공유` 모달에서 다운로드와 앱 링크 공유 확인
-6. 업로드 화면의 `나의 기록 보기`에서 해당 날짜 도장 확인
+6. 업로드 화면의 `일기장 보기`에서 해당 날짜 도장 확인
 7. 같은 사진·본문의 제목·날씨 변경 시 기존 기록 교체, 사진 또는 본문 수정 후 저장 시 별도 기록 유지, `저장 및 공유`와 삭제 확인
+8. 업로드의 오늘 도장·연속 기록, 달력의 연속·누적 기록, 특별 마일스톤 모달 확인
+9. 같은 날 여러 일기는 화살표로만 이동하고, 작성 CTA와 뒤로가기가 입력 변경·진입 단계에 맞게 동작하는지 확인
 
 ## 관련 문서
 
